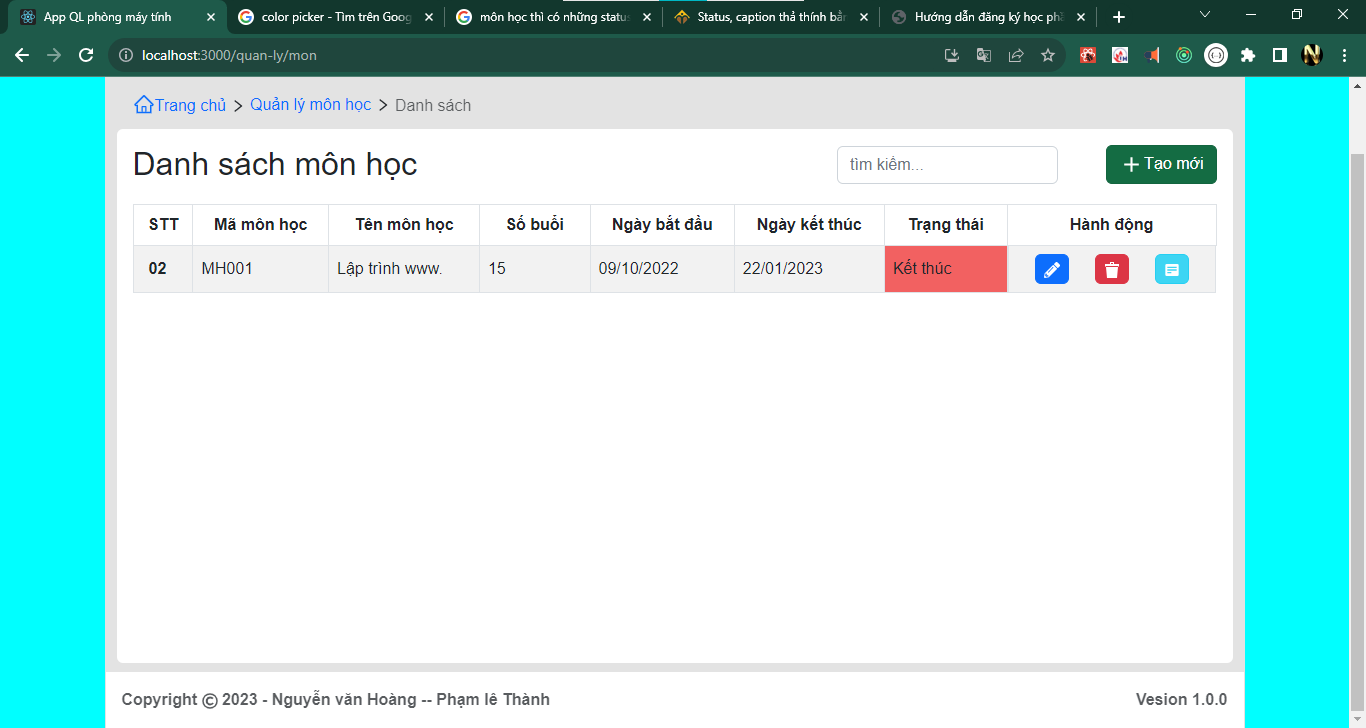
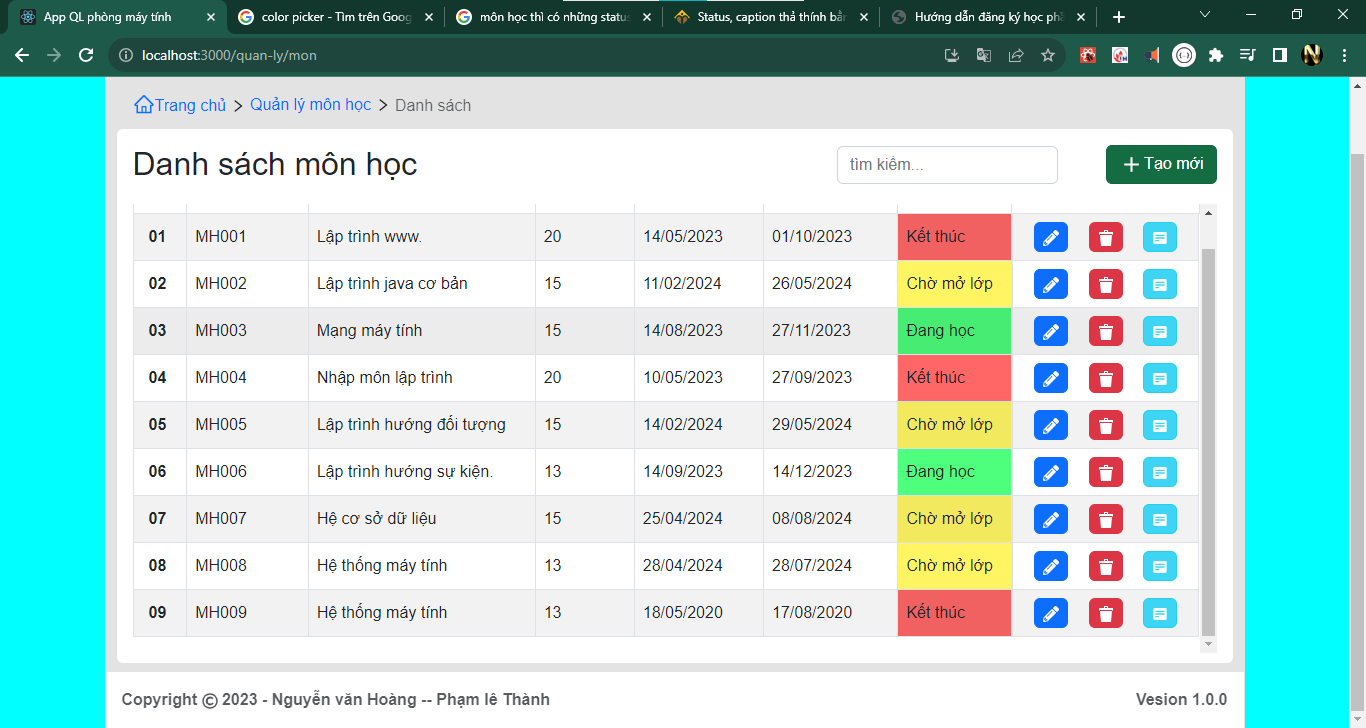
QL mon: finish table QL

diff --git a/src/pages/PageQuanLy/PageQlMonHoc.jsx b/src/pages/PageQuanLy/PageQlMonHoc.jsx
@@ -1,4 +1,4 @@
-import React, { useState } from "react";
+import React, { useEffect, useState } from "react";
 import { NavLink, useNavigate, useParams } from "react-router-dom";
 //
 import { FaPencilAlt } from "react-icons/fa";
@@ -10,11 +10,21 @@ import NavTab from "../../components/common/NavTab/NavTab";
 import Footer from "../../components/common/Footer/Footer";
 import Database from "../../util/database/Database";
 import { formatStringDate } from "../../util/config";
-
-
+import { useDispatch, useSelector } from "react-redux";
+import { getAllMonHoc } from "../../redux/reducers/monHocReducer";
 
 export default function PageQlMonHoc() {
+  const dispatch = useDispatch();
+
   let [txtSearch, setTxtSearch] = useState("");
+
+  let { arrMonHoc } = useSelector((state) => state.monHocReducer);
+
+  // useEffect -- call data mon hoc
+  useEffect(() => {
+    const action = getAllMonHoc;
+    dispatch(action);
+  }, []);
 
   //handle
   const handleChangeSearch = (e) => {
@@ -23,84 +33,79 @@ export default function PageQlMonHoc() {
 
   //render
   const renderDataMon = () => {
-    const item = {
-      id:1,
-      idCode: "MH001",
-      name: "Lập trình www.",
-      ngayBatDau: new Date(2022,9,9),
-      soBuoi: 15,
-    };
-    var index = item.id;
 
+    return arrMonHoc?.map((item, index) => {
+      console.log("🚀 ~ file: PageQlMonHoc.jsx:38 ~ returnarrMonHoc?.map ~ item:", item)
+      let ngayBD = item?.ngayBatDau;
+      let ngayKT = new Date(ngayBD);
 
-    let ngayBD = item.ngayBatDau;
-    let ngayKT = new Date(ngayBD);
-    
-    ngayKT.setDate(ngayKT.getDate() + item.soBuoi*7);
+      ngayKT.setDate(ngayKT.getDate() + item?.soBuoi * 7);
 
-    // render 
-    const renderTrangThai = () => {
-      let day = new Date();
-      if (day > ngayBD) {
-        return <td style={{backgroundColor:'#ff6666'}}>Kết thúc</td>
-      }
-      if (ngayBD > day){
-        return <td style={{backgroundColor:'#fff563'}}>Chờ mở lớp</td>
-      }
-      return <td style={{backgroundColor:'#4dff7c'}}>Đang học</td>
-    }
-    return (
-      <tr key={index}>
-        <td scope="row" style={{ fontWeight: 600, padding: "0 15px" }}>
-          {index < 9 ? `0${index + 1}` : index + 1}
-        </td>
-        <td>{item.idCode}</td>
-        <td>{item.name}</td>
-        <td>{item.soBuoi}</td>
-        <td>{formatStringDate(item.ngayBatDau)}</td>
-        <td>{formatStringDate(ngayKT)}</td>
-        {renderTrangThai()}
-        
-        <td style={{ display: "flex", justifyContent: "space-evenly" }}>
-          <NavLink
-            // to={"/quan-ly/phan-mem/update"}
-            onClick={() => {
-              alert(`Update -- ${item.id} -- dang cập nhật!`);
-              // co the truyển data len redux từ đây rồi sang trang kia lấy về sau
-            }}
-          >
+      // render
+      const renderTrangThai = () => {
+        let day = new Date();
+        if (day > ngayKT) {
+          return <td style={{ backgroundColor: "#ff6666" }}>Kết thúc</td>;
+        }
+        if (ngayBD > day) {
+          
+          return <td style={{ backgroundColor: "#fff563" }}>Chờ mở lớp</td>;
+        }
+        return <td style={{ backgroundColor: "#4dff7c" }}>Đang học</td>;
+      };
+      return (
+        <tr key={index}>
+          <td scope="row" style={{ fontWeight: 600, padding: "0 15px" }}>
+            {index < 9 ? `0${index + 1}` : index + 1}
+          </td>
+          <td>{item?.idCode}</td>
+          <td>{item?.name}</td>
+          <td>{item?.soBuoi}</td>
+          <td>{formatStringDate(item?.ngayBatDau)}</td>
+          <td>{formatStringDate(ngayKT)}</td>
+          {renderTrangThai()}
+
+          <td style={{ display: "flex", justifyContent: "space-evenly" }}>
+            <NavLink
+              // to={"/quan-ly/phan-mem/update"}
+              onClick={() => {
+                alert(`Update -- ${item.id} -- dang cập nhật!`);
+                // co the truyển data len redux từ đây rồi sang trang kia lấy về sau
+              }}
+            >
+              <button
+                type="button"
+                className="btn btn-primary mx-2 px-2"
+                style={{ padding: "2px" }}
+              >
+                <FaPencilAlt color="white" size={16} />
+              </button>
+            </NavLink>
             <button
+              onClick={() => {
+                alert(`Del -- ${item.id} -- dang cập nhật!`);
+              }}
               type="button"
-              className="btn btn-primary mx-2 px-2"
+              className="btn btn-danger mx-2 px-2"
               style={{ padding: "2px" }}
             >
-              <FaPencilAlt color="white" size={16} />
+              <ImBin2 color="white" size={16} />
             </button>
-          </NavLink>
-          <button
-            onClick={() => {
-              alert(`Del -- ${item.id} -- dang cập nhật!`);
-            }}
-            type="button"
-            className="btn btn-danger mx-2 px-2"
-            style={{ padding: "2px" }}
-          >
-            <ImBin2 color="white" size={16} />
-          </button>
-          <NavLink
-            // to={`../quan-ly/phong`}
-            onClick={() => {
-              alert(`Chi tiết -- ${item.id} -- dang cập nhật!`);
-            }}
-            type="button"
-            className="btn btn-info mx-2 px-2"
-            style={{ padding: "2px" }}
-          >
-            <BiSolidDetail color="white" size={16} />
-          </NavLink>
-        </td>
-      </tr>
-    );
+            <NavLink
+              // to={`../quan-ly/phong`}
+              onClick={() => {
+                alert(`Chi tiết -- ${item.id} -- dang cập nhật!`);
+              }}
+              type="button"
+              className="btn btn-info mx-2 px-2"
+              style={{ padding: "2px" }}
+            >
+              <BiSolidDetail color="white" size={16} />
+            </NavLink>
+          </td>
+        </tr>
+      );
+    });
   };
 
   // Mảng quản lý data navtab

diff --git a/src/util/database/Database.js b/src/util/database/Database.js
@@ -1,10 +1,13 @@
 // const date = new Date(Math.floor(Math.random() * 5) + 2019,Math.floor(Math.random() * 12) + 1,Math.floor(Math.random() * 29) +1)
 
 const date1 = () => {
-  return new Date(Math.floor(Math.random() * 5) + 2019,Math.floor(Math.random() * 12) + 1,Math.floor(Math.random() * 29) +1)
+  return new Date(Math.floor(Math.random() * 5) + 2020,Math.floor(Math.random() * 12) + 1,Math.floor(Math.random() * 29) +1)
 }
 const date2 = () => {
   return new Date(2023,Math.floor(Math.random() * 10) + 1,Math.floor(Math.random() * 29) +1)
+}
+const date3 = () => {
+  return new Date(2024,Math.floor(Math.random() * 12) + 1,Math.floor(Math.random() * 29) +1)
 }
 
 
@@ -152,13 +155,15 @@ let arrPhongMay2 = [
 
 // 5.	Môn học (mã môn, tên môn , ngày bắt đầu môn, ngày kết thúc môn - so tuần)
 const dataMonHoc = [
-  {id:'MH001', name:'Lập trình www.', ngayBatDau: date2, soBuoi:15 },
-  {id:'MH002', name:'Lập trình java cơ bản', ngayBatDau: date2, soBuoi:15 },
-  {id:'MH003', name:'Mạng máy tính', ngayBatDau: date2, soBuoi:15 },
-  {id:'MH004', name:'Nhập môn lập trình', ngayBatDau: date2, soBuoi:15 },
-  {id:'MH005', name:'Lập trình hướng đối tượng', ngayBatDau: date2, soBuoi:15 },
-  {id:'MH006', name:'Lập trình hướng sự kiện.', ngayBatDau: date2, soBuoi:15 },
-  {id:'MH007', name:'Hệ cơ sở dữ liệu', ngayBatDau: date1, soBuoi:15 },
+  {idCode:'MH001', name:'Lập trình www.', ngayBatDau: date1(), soBuoi:20 },
+  {idCode:'MH002', name:'Lập trình java cơ bản', ngayBatDau: date3(), soBuoi:15 },
+  {idCode:'MH003', name:'Mạng máy tính', ngayBatDau: date2(), soBuoi:15 },
+  {idCode:'MH004', name:'Nhập môn lập trình', ngayBatDau: date2(), soBuoi:20 },
+  {idCode:'MH005', name:'Lập trình hướng đối tượng', ngayBatDau: date3(), soBuoi:15 },
+  {idCode:'MH006', name:'Lập trình hướng sự kiện.', ngayBatDau: date2(), soBuoi:13 },
+  {idCode:'MH007', name:'Hệ cơ sở dữ liệu', ngayBatDau: date3(), soBuoi:15 },
+  {idCode:'MH008', name:'Hệ thống máy tính', ngayBatDau: date3(), soBuoi:13 },
+  {idCode:'MH009', name:'Hệ thống máy tính', ngayBatDau: date1(), soBuoi:13 },
 ]
 const arrMonhoc1= [
   dataMonHoc[Math.floor(Math.random() * dataMonHoc.length)],
@@ -182,6 +187,5 @@ const dataPhanMem = [
   {id:5, idCode:'PM005', name:'Node js', mota:'MySQL là hệ quản trị cơ sở dữ liệu tự do nguồn mở phổ biến nhất thế giới và được các nhà phát triển rất ưa chuộng trong quá trình phát triển ứng dụng.', status:1, arrPhongMay: arrPhongMay1, arrMonhoc:arrMonhoc1 , ngaySuDung:date1(),tuoiTho:Math.floor(Math.random() * 24) + 12  },
   {id:6, idCode:'PM006', name:'Python 2.0', mota:'MySQL là hệ quản trị cơ sở dữ liệu tự do nguồn mở phổ biến nhất thế giới và được các nhà phát triển rất ưa chuộng trong quá trình phát triển ứng dụng.', status:1, arrPhongMay: arrPhongMay2, arrMonhoc:arrMonhoc2 , ngaySuDung:new Date(2021,10,2),tuoiTho:24  },
 ]
-console.log("🚀 ~ file: Database.js:170 ~ dataPhanMem:", dataPhanMem)
 
-export default { dataKhuVuc,dataPhongMay,dataTang,dataThietBi,dataPhanMem };
+export default { dataKhuVuc,dataPhongMay,dataTang,dataThietBi,dataPhanMem,dataMonHoc };

diff --git a/src/redux/reducers/monHocReducer.jsx b/src/redux/reducers/monHocReducer.jsx
@@ -1,0 +1,52 @@
+//rxslice
+
+import { createSlice } from "@reduxjs/toolkit";
+import { http } from "../../util/config";
+import Database from "../../util/database/Database";
+
+const initialState = {
+  arrMonHoc: [
+    {
+      id: 1,
+      idCode: "MH001",
+      name: "Lập trình www.",
+      ngayBatDau: new Date(2022, 9, 9),
+      soBuoi: 15,
+    },
+  ],
+  detailMonHoc: {},
+};
+
+const monHocReducer = createSlice({
+  name: "monHocReducer",
+  initialState,
+  reducers: {
+    setArrMonHocAction : (state, action) => {
+        state.arrMonHoc = action.payload
+    }
+  },
+});
+// exp nay de sử dụng theo cách 2
+export const { setArrMonHocAction, } = monHocReducer.actions;
+export default monHocReducer.reducer;
+
+
+
+
+// -------------- Call Api -----------------
+
+export const getAllMonHoc = async (dispatch) => {
+    // call Api 
+    try {
+        // let result = await http.get('/monhoc...');
+        // const action = setArrMonHocAction(result.data.content)
+        const action = setArrMonHocAction(Database.dataMonHoc);
+
+        dispatch(action);
+
+
+    } catch (error) {
+        console.log("🚀 ~ file: monHocReducer.jsx:37 ~ getAllMonHoc ~ error:", error)
+        
+    }
+}

diff --git a/src/pages/PageQuanLy/PageQLTang.jsx b/src/pages/PageQuanLy/PageQLTang.jsx
@@ -119,7 +119,7 @@ const PageQLTang = (props) => {
             >
               <button
                 type="button"
-                class="btn btn-primary mx-2 px-2"
+                className="btn btn-primary mx-2 px-2"
                 style={{ padding: "2px" }}
               >
                 <FaPencilAlt color="white" size={16} />

diff --git a/src/redux/ConfigRedux.js b/src/redux/ConfigRedux.js
@@ -1,8 +1,10 @@
 import { configureStore } from "@reduxjs/toolkit";
 import numberReducer from "./reducers/numberReducer";
+import monHocReducer from "./reducers/monHocReducer";
 
 export const store = configureStore({
     reducer: {
       number: numberReducer,
+      monHocReducer: monHocReducer,
     },
   });

diff --git a/src/util/config.js b/src/util/config.js
@@ -102,7 +102,7 @@ export const {
 const TOKEN_CYBERSOFT = 'z123456';
 
 export const http = axios.create({
-  baseURL:`https://shop.cyberlearn.vn/api`,
+  baseURL:`https://localhost:8080/api`,
   timeout:6000// thoi gian duy tri 600s
 })
 

diff --git a/README.md b/README.md
@@ -37,3 +37,7 @@
     - FormAddPhong - Formupdate- can checkbox ALL
     - PageQLPhongMay - chua co sk  btn update - detail
     - PageQLPhanMem - chuc nang CRUD chua co gi
+    - PageQlMonHoc: Chuc nang CRUD chua co
+    - PageQlMonHoc can test lai cot trang thai
+
+
